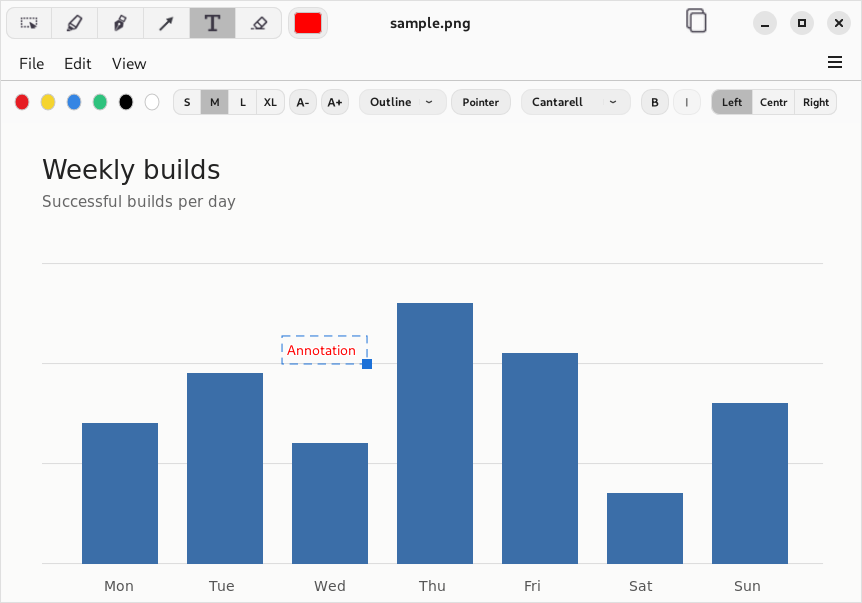
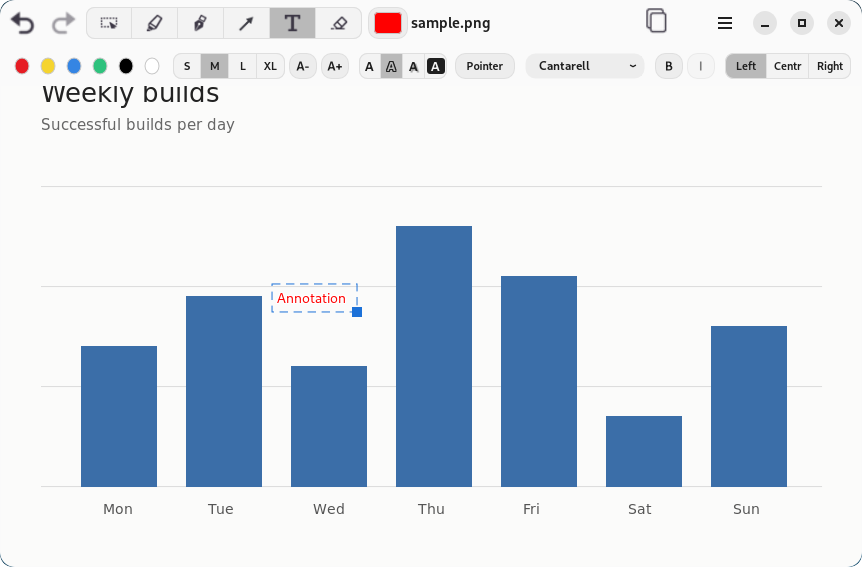
README: Adwaita screenshots without the menu bar row
Tools/screenshots.sh runs the Adwaita side with GnomeThemeMenuStyle =
primary, so the menus are in the header bar's menu and there is no menu
bar row, as in the theme's own README. The theme now draws its own
shadow and rounded corners: the -window crops leave out the shadow (the
window's _GTK_FRAME_EXTENTS) and make the corners transparent rather
than the desktop behind them. The README's two Adwaita images are
retaken.

diff --git a/README.md b/README.md
@@ -54,7 +54,8 @@ window, adding a text annotation:
 ![Adding text under the Adwaita theme](docs/images/adwaita-text.png)
 
 Under the [Adwaita theme](https://github.com/danjboyd/plugins-themes-Adwaita), as on a GNOME
-desktop: the toolbar sits in the header bar.
+desktop: the toolbar sits in the header bar, and the menus are in its ☰ menu
+(`-GnomeThemeMenuStyle primary`), with no menu bar row.
 
 ![Adding text under GNUstep's default theme](docs/images/gnustep-text.png)
 
@@ -66,7 +67,7 @@ A tool's width and colour, from its toolbar button.
 
 To regenerate these images, run `Tools/screenshots.sh` after building the app. It opens the app on a
 private display under both themes, and saves each screen whole and cropped to its window
-(`*-window.png`). The images here are `adwaita-text-toolbar-window.png`,
+(`*-window.png`; under Adwaita without the theme's shadow, with transparent rounded corners). The images here are `adwaita-text-toolbar-window.png`,
 `default-text-toolbar-window.png` and `adwaita-popover-window.png`.
 
 ## Build
